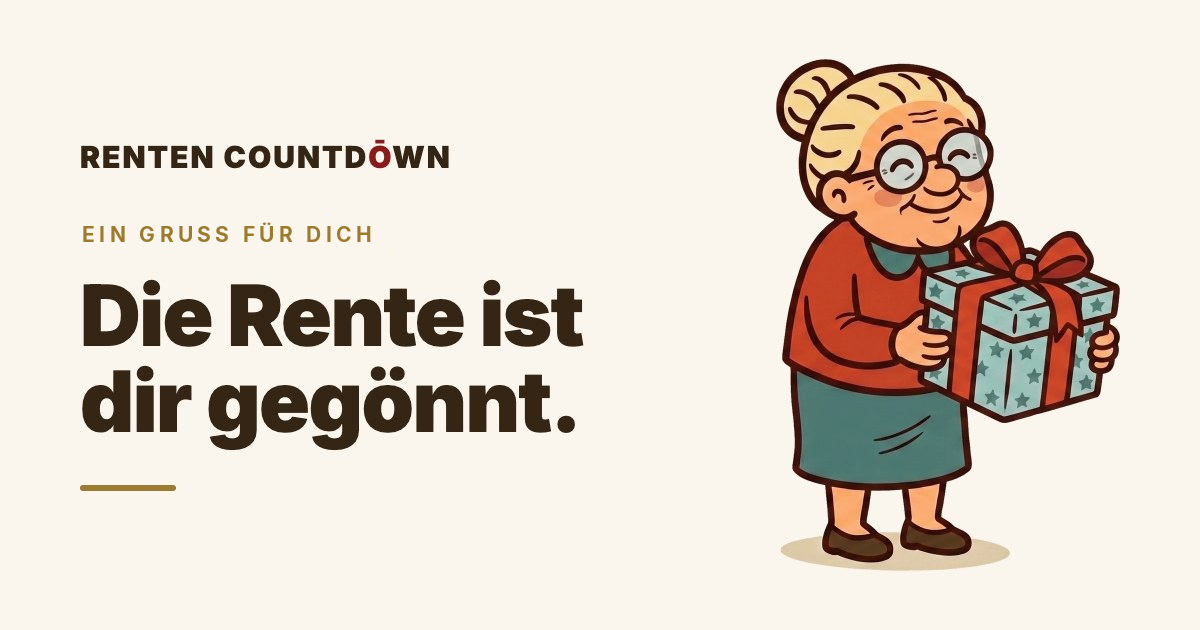
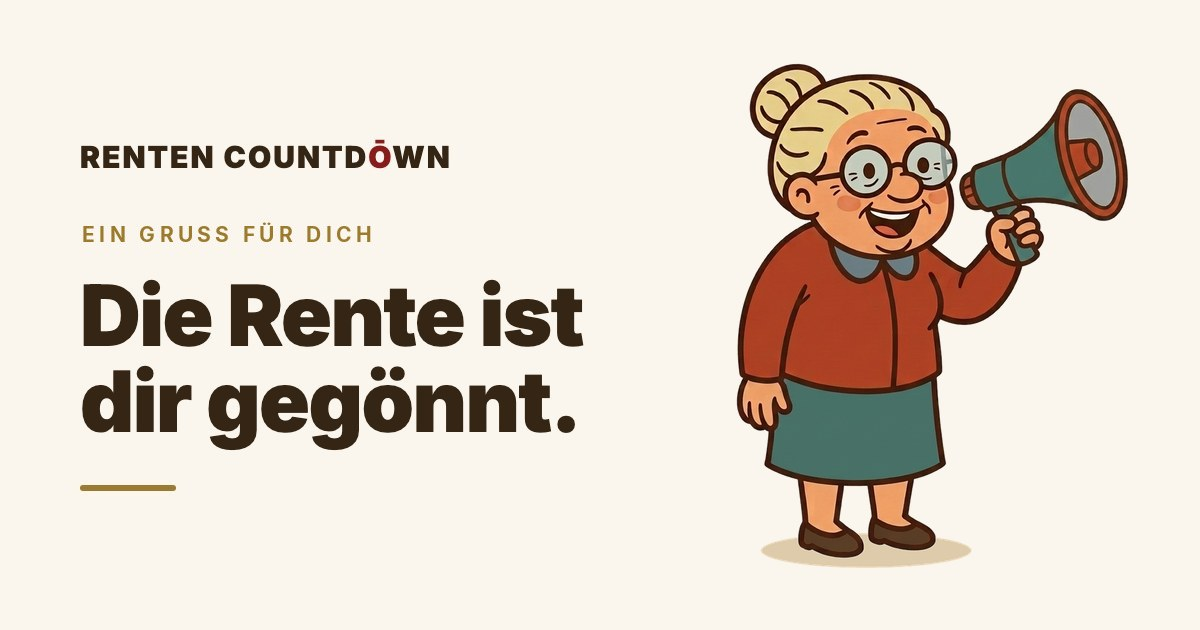
fix(site): swap the greeting page's gift motif for the megaphone Oma
The greeting page still showed the Oma handing over a wrapped present — in the
hero and, worse, in the og:image every WhatsApp link preview pulls. Nothing is
gifted on this path: the recipient buys the app themselves. The package was the
same empty promise the old "/verschenken" wording made.

The app already draws this line (HeroMotiv.geschenk on the Apple gifting path,
HeroMotiv.megafon on the greeting path); the website now matches it. The new
oma-megafon.webp is cut from the same source frame the app's oma-megafon loop
was rendered from, with the ground shadow rebuilt to match oma-geschenk.webp.
og-gruss.jpg keeps its typography and only trades the figure, so already
scraped previews change picture, not message.

Changed region(s): [[0.6167, 0.0905, 0.9558, 0.9048], [0.1542, 0.3619, 0.185, 0.3921]]

diff --git a/docs/gruss.html b/docs/gruss.html
@@ -21,7 +21,7 @@
   <meta property="og:image" content="https://renten-countdown.de/assets/og-gruss.jpg">
   <meta property="og:image:width" content="1200">
   <meta property="og:image:height" content="630">
-  <meta property="og:image:alt" content="Die Turbo-Oma hält ein Päckchen. Titel: Die Rente ist dir gegönnt.">
+  <meta property="og:image:alt" content="Die Turbo-Oma ruft es mit dem Megafon heraus. Titel: Die Rente ist dir gegönnt.">
   <meta name="twitter:card" content="summary_large_image">
 
   <style>
@@ -313,8 +313,14 @@
         </div>
 
         <figure class="gift-art">
-          <img src="assets/oma-geschenk.webp" width="688" height="1024" fetchpriority="high"
-               alt="Die Turbo-Oma hält lächelnd ein eingepacktes Geschenk mit roter Schleife im Arm.">
+          <!--
+            Megafon statt Geschenkpaket: Diese Seite ist der Gruß-Weg, hier wird
+            nichts verschenkt — der Empfänger kauft selbst. Ein Päckchen wäre
+            dasselbe leere Versprechen wie das alte Wort „Verschenken". Die App
+            hält dieselbe Trennung (`HeroMotiv.geschenk` vs. `HeroMotiv.megafon`).
+          -->
+          <img src="assets/oma-megafon.webp" width="796" height="1024" fetchpriority="high"
+               alt="Die Turbo-Oma hält lächelnd ein Megafon hoch und ruft es heraus.">
           <figcaption class="oma-voice">„Wer rastet, der rostet. Ich roste herrlich.“</figcaption>
         </figure>
       </div>

diff --git a/docs/verschenken.html b/docs/verschenken.html
@@ -38,7 +38,7 @@
   <meta property="og:image" content="https://renten-countdown.de/assets/og-gruss.jpg">
   <meta property="og:image:width" content="1200">
   <meta property="og:image:height" content="630">
-  <meta property="og:image:alt" content="Die Turbo-Oma hält ein Päckchen. Titel: Die Rente ist dir gegönnt.">
+  <meta property="og:image:alt" content="Die Turbo-Oma ruft es mit dem Megafon heraus. Titel: Die Rente ist dir gegönnt.">
   <meta name="twitter:card" content="summary_large_image">
   <script>
     (function () {
